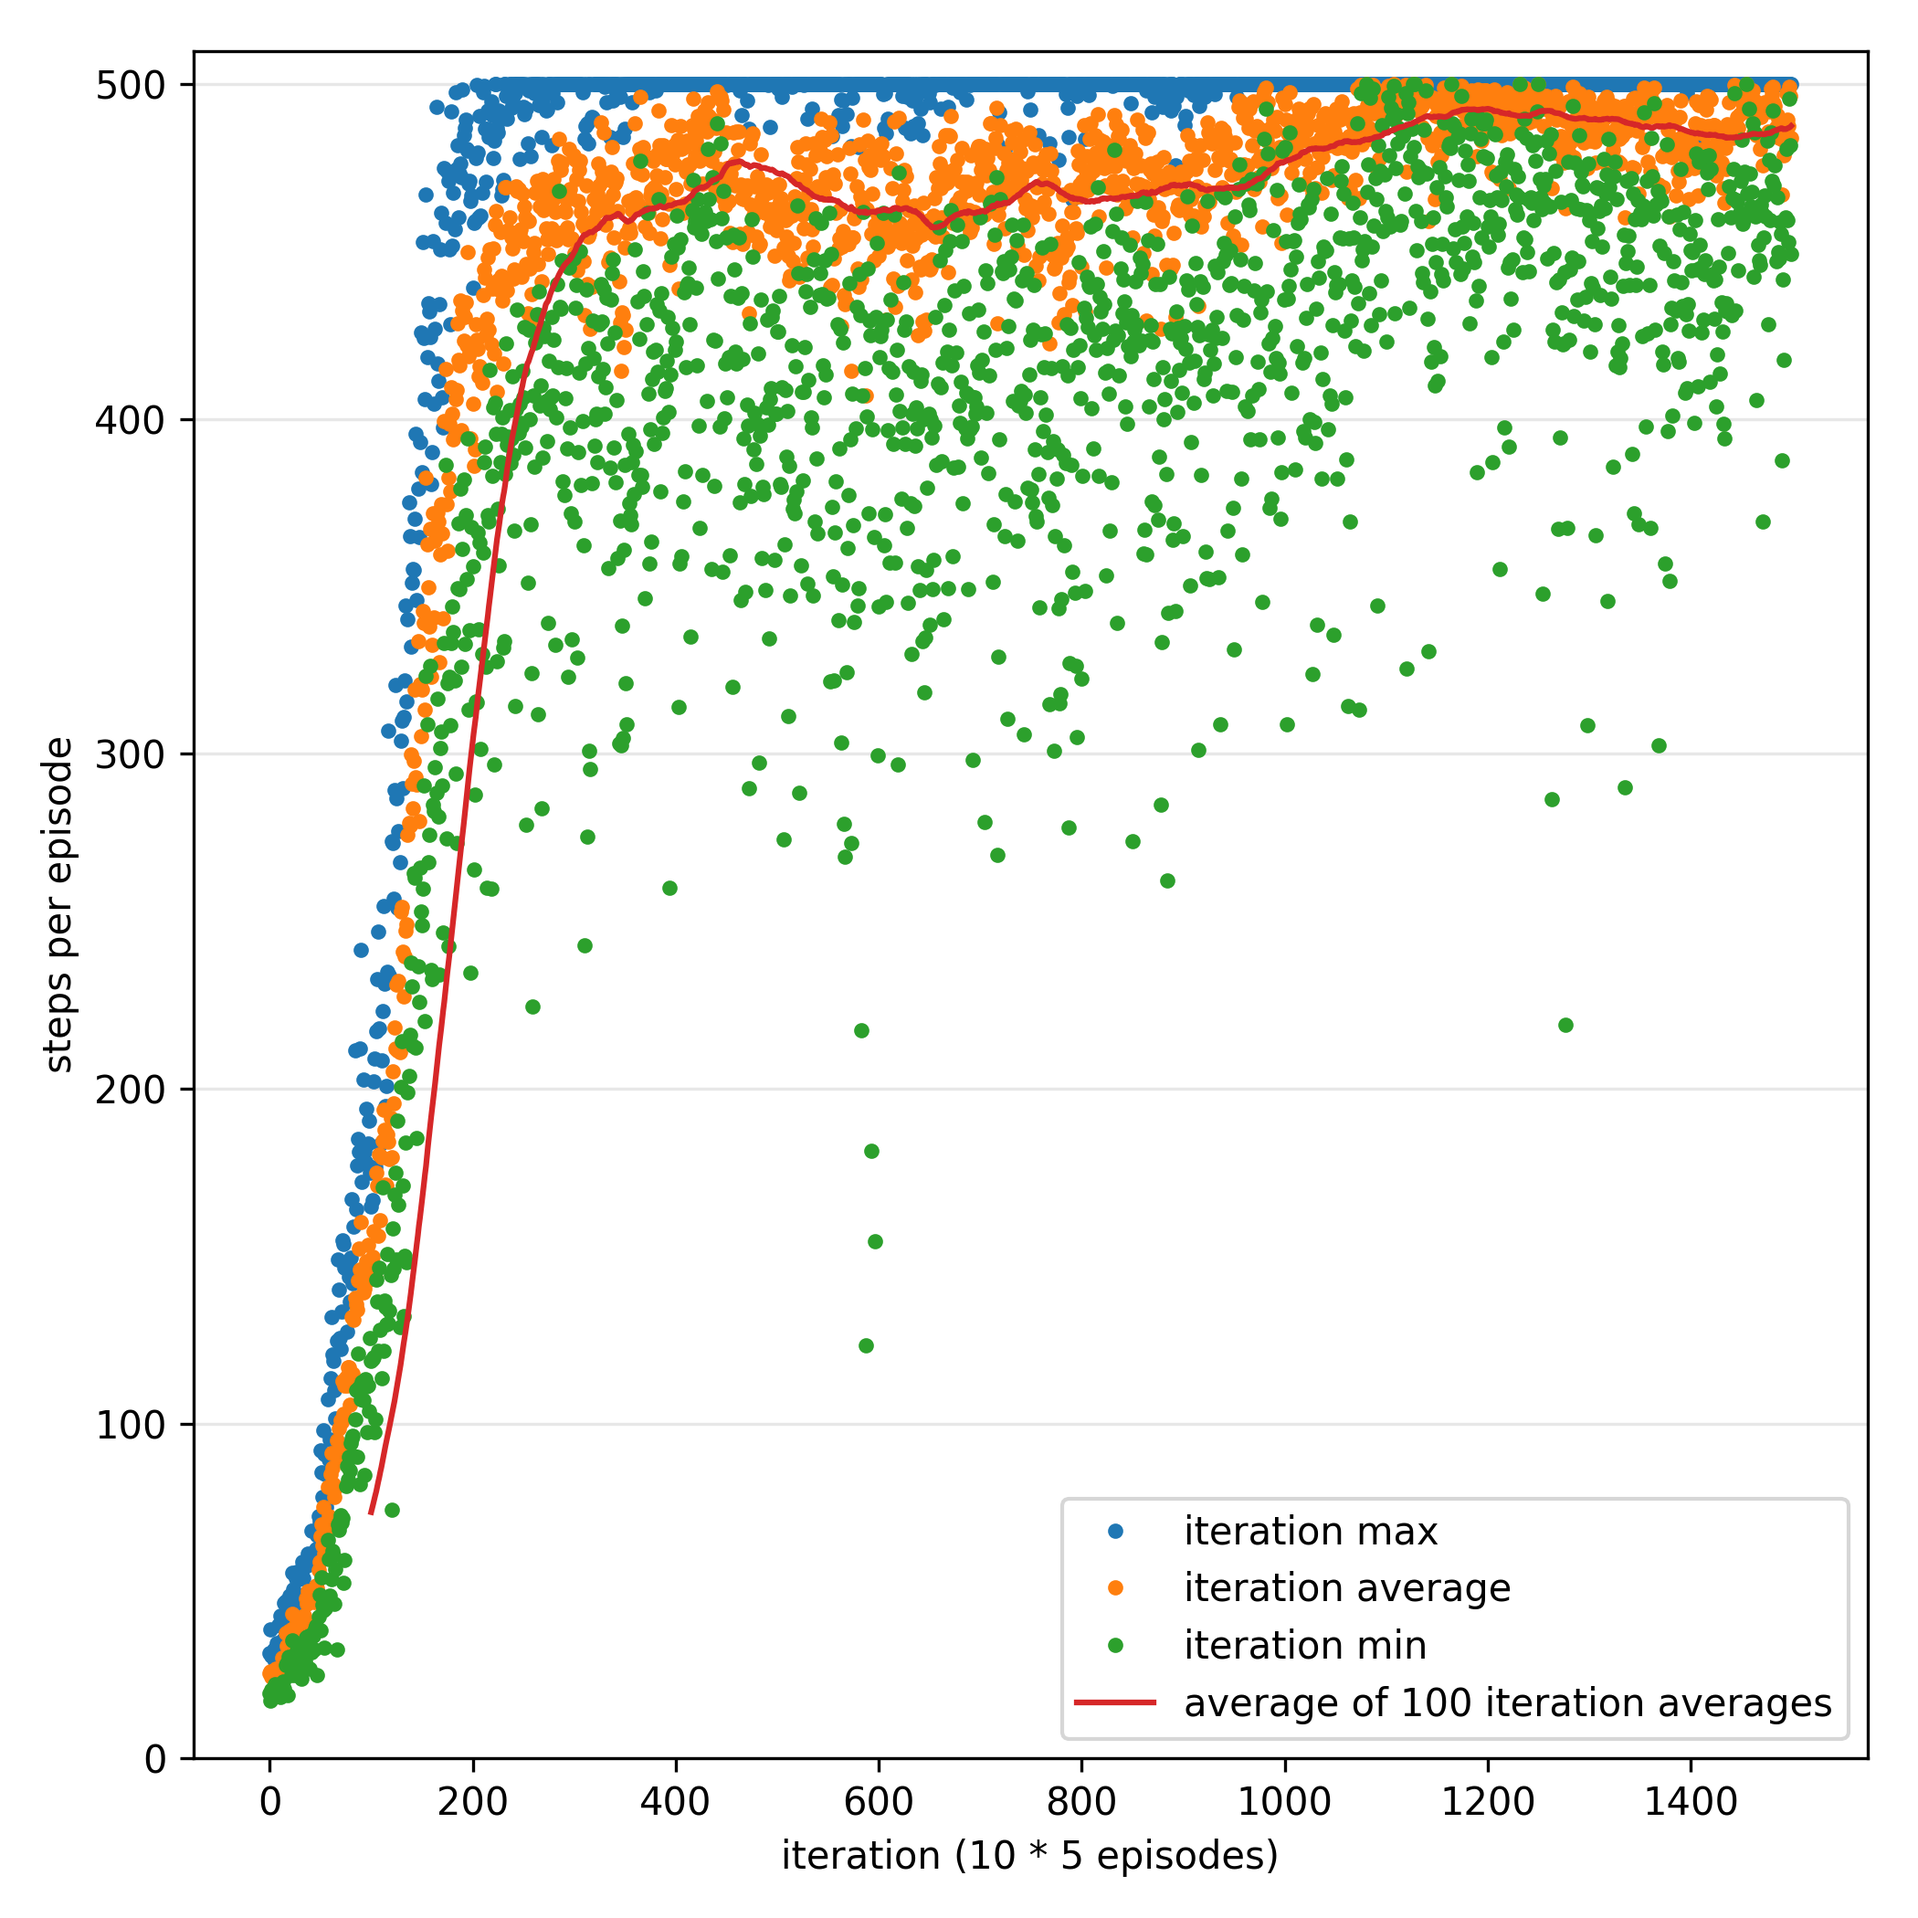
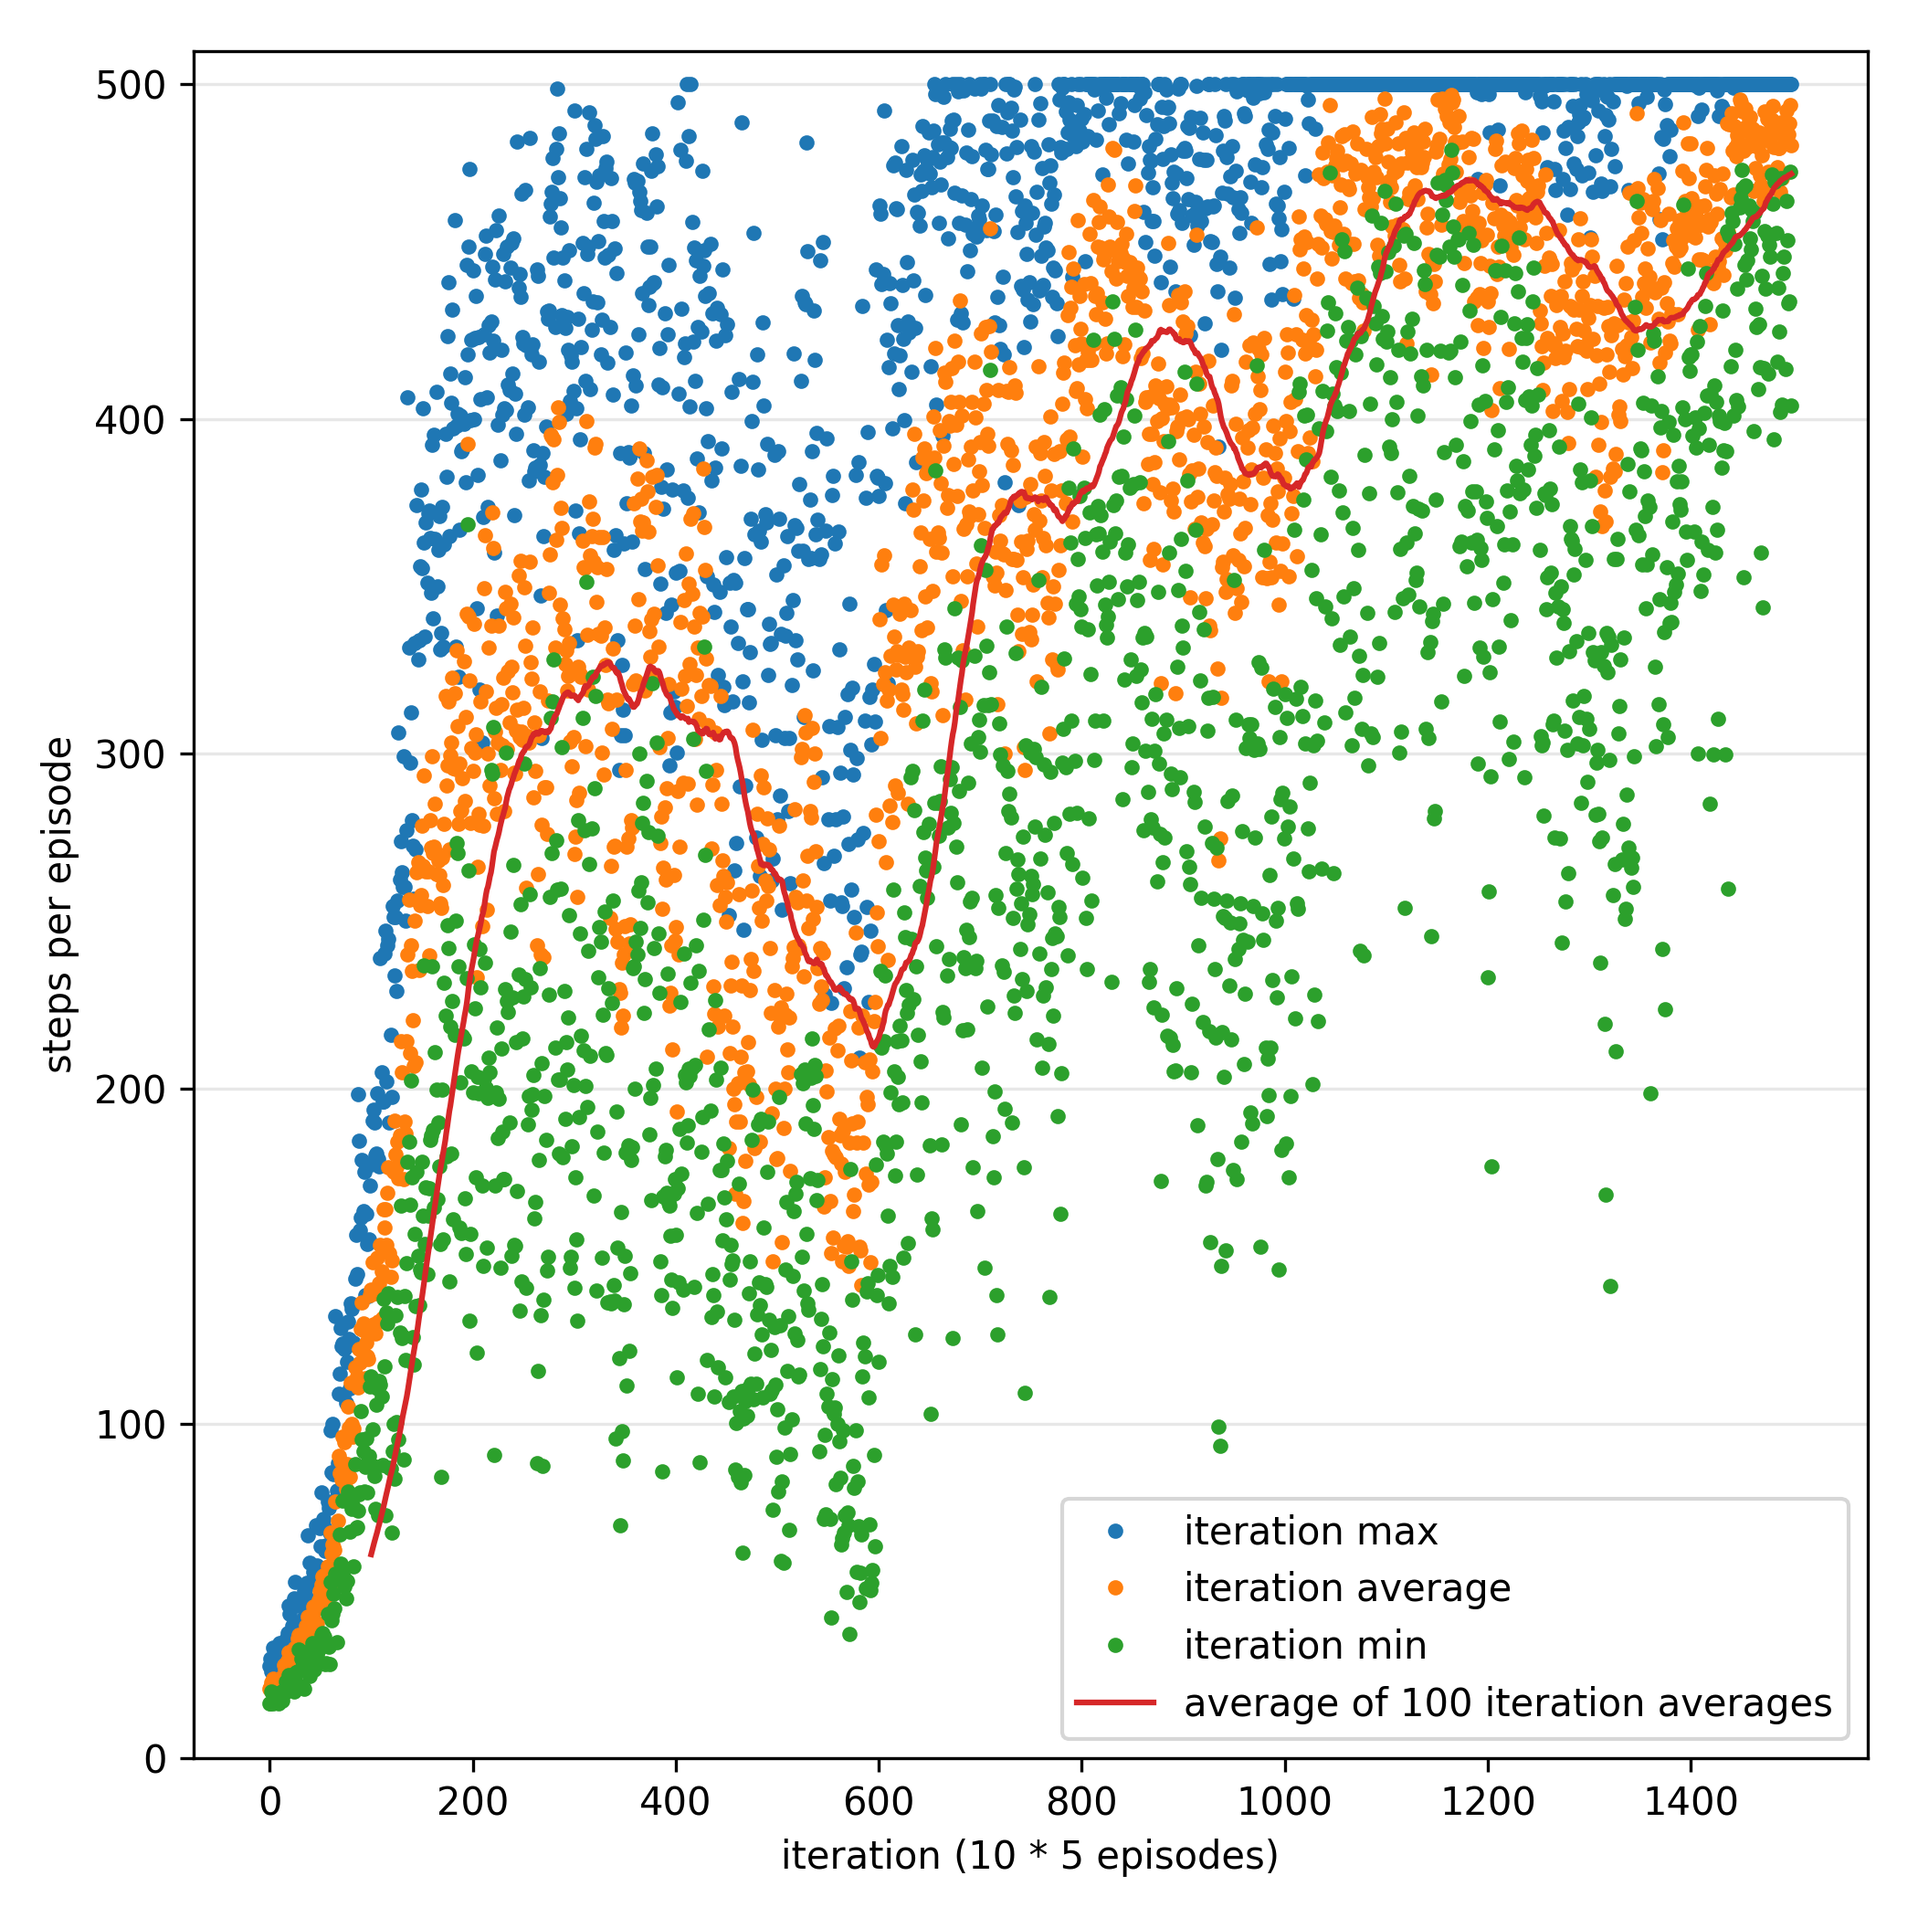
Add latest code

Changed region(s): [[0.1238, 0.031, 0.9595, 0.8976], [0.8357, 0.5262, 0.8667, 0.5571], [0.619, 0.65, 0.65, 0.681]]

diff --git a/neurosim/tools/eval_seedrun.py b/neurosim/tools/eval_seedrun.py
@@ -103,17 +103,25 @@ def show_analyze_once(wdir, modifier=None, steps=100, stype='avg'):
   plt.savefig(outputfile, dpi=300)
 
 
-def _extract_steps_per_ep(wdir, steps, stype):
+def _extract_steps_per_ep(wdir, steps, stype, filetype='stdp'):
   assert stype in ['avg', 'median']
   all_wdir_steps, _ = _extract_hpsteps(wdir)
+  if filetype == 'stdp':
+    training_results = []
+    for wdir_steps in all_wdir_steps:
+      with open(os.path.join(wdir_steps, 'ActionsPerEpisode.txt')) as f:
+          training_results.extend([int(float(eps)) for _,eps in csv.reader(f, delimiter='\t')])
 
-  training_results = []
-  for wdir_steps in all_wdir_steps:
-    with open(os.path.join(wdir_steps, 'ActionsPerEpisode.txt')) as f:
-        training_results.extend([int(float(eps)) for _,eps in csv.reader(f, delimiter='\t')])
+    func = np.average if stype == 'avg' else np.median
+    return _get_agg(training_results, steps, func)
+  elif filetype == 'evolstdprl':
+    training_results = []
+    for wdir_steps in all_wdir_steps:
+      with open(os.path.join(wdir_steps, 'STDP.txt')) as f:
+          training_results.extend([int(float(eps)) for _,eps in csv.reader(f, delimiter='\t')])
 
-  func = np.average if stype == 'avg' else np.median
-  return _get_agg(training_results, steps, func)
+    func = np.average if stype == 'avg' else np.median
+    return _get_agg(training_results, steps, func)
 
 
 def steps_per_eps(wdir, steps=100, stype='avg', modifier=None, parts=1, seed_nrs=False):

diff --git a/neurosim/tools/eval_multimodel.py b/neurosim/tools/eval_multimodel.py
@@ -281,7 +281,7 @@ def iters_for_evolstdprl(wdir, outdir=None, at_iter='alpha', steps=[100],
 
   all_wdir_steps, _ = _extract_hpsteps(wdir)
   training_results = []
-  offset = 0 if at_iter == 'alpha' else (4 if at_iter == 'beta' else 9)
+  offset = 4 if at_iter == 'alpha' else (9 if at_iter == 'beta' else 0)
   for wdir_steps in all_wdir_steps:
     with open(os.path.join(wdir_steps, 'STDP_es_train.csv')) as f:
       for row in csv.reader(f, delimiter=','):
@@ -359,7 +359,7 @@ def eval_for_evolstdprl(wdirs, outdir=None, steps=[100]):
     for at_iter in ['alpha', 'gamma']:
       all_wdir_steps, _ = _extract_hpsteps(wdir)
       training_results = []
-      offset = 0 if at_iter == 'alpha' else (4 if at_iter == 'beta' else 9)
+      offset = 4 if at_iter == 'alpha' else (9 if at_iter == 'beta' else 0)
       for wdir_steps in all_wdir_steps:
         with open(os.path.join(wdir_steps, 'STDP_es_train.csv')) as f:
           for row in csv.reader(f, delimiter=','):

diff --git a/neurosim/log_many_things.md b/neurosim/log_many_things.md
@@ -209,3 +209,8 @@ py neurosim/main.py eval $WDIR --resume_tidx=52 --env-seed 42 \
     --eps-duration 100 --save-data
 
 
+# g10 models
+WDIR=results/retrain_evol_g10-2022-02-17/run_seed1394398
+py neurosim/tools/eval_multimodel.py train-perf-evol $WDIR
+WDIR=results/retrain_evol_g10-2022-02-17/run_seed5397326
+py neurosim/tools/eval_multimodel.py train-perf-evol $WDIR
